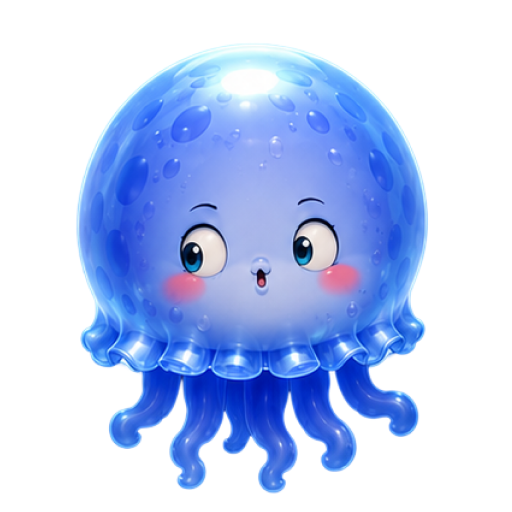
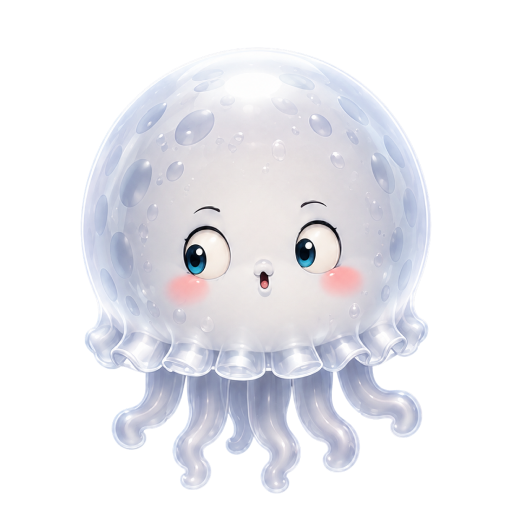
+3 jellyfish

diff --git a/src/worlds.js b/src/worlds.js
@@ -24,7 +24,10 @@ const JELLYFISH_CHARACTERS = Object.freeze([
   makeCharacter({ level: 3, name: 'Искорка', character: 'Неутомимая исследовательница.', description: 'Любопытная до невозможности. Если где-то что-то блеснуло — она уже там.', glowName: 'янтарно-золотое', glowColor: '#FFB347', glowColorNumber: 0xffb347, radius: 42, color: 0xffb347, cssColor: '#FFB347', points: 50, textureKey: 'jellyfish-level-3', texturePath: './assets/jellyfish/level3.png', bodyRatio: 0.68, originX: 0.5, originY: 0.42, progressScale: 0.92 }),
   makeCharacter({ level: 4, name: 'Хихи', character: 'Смешливая душа компании.', description: 'Смеётся первой, иногда ещё до того, как поняла шутку.', glowName: 'сиренево-фиолетовое', glowColor: '#B56CFF', glowColorNumber: 0xb56cff, radius: 53, color: 0xb56cff, cssColor: '#B56CFF', points: 100, textureKey: 'jellyfish-level-4', texturePath: './assets/jellyfish/level4.png', bodyRatio: 0.68, originX: 0.5, originY: 0.42, progressScale: 0.92 }),
   makeCharacter({ level: 5, name: 'Мята', character: 'Спокойная и немного самоуверенная.', description: 'Спокойная, хитрая и немного самоуверенная. Кажется, она всегда знает чуть больше остальных.', glowName: 'мятно-бирюзовое', glowColor: '#45F0CE', glowColorNumber: 0x45f0ce, radius: 66, color: 0x45f0ce, cssColor: '#45F0CE', points: 200, textureKey: 'jellyfish-level-5', texturePath: './assets/jellyfish/level5.png', bodyRatio: 0.68, originX: 0.5, originY: 0.42, progressScale: 0.92 }),
-  makeCharacter({ level: 6, name: 'Луна', character: 'Тихая мечтательница.', description: 'Мечтательница. Может долго смотреть в темноту и совершенно забыть, куда плыла.', glowName: 'лунно-синее', glowColor: '#6095FF', glowColorNumber: 0x6095ff, radius: 81, color: 0x6095ff, cssColor: '#6095FF', points: 400, textureKey: 'jellyfish-level-6', texturePath: './assets/jellyfish/level6.png', bodyRatio: 0.68, originX: 0.5, originY: 0.42, progressScale: 0.92 }),
+  makeCharacter({ level: 6, name: 'Луна', character: 'Тихая мечтательница.', description: 'Мечтательница. Может долго смотреть в темноту и совершенно забыть, куда плыла.', glowName: 'жемчужно-белое', glowColor: '#EAF5FF', glowColorNumber: 0xeaf5ff, radius: 81, color: 0xeaf5ff, cssColor: '#EAF5FF', points: 400, textureKey: 'jellyfish-level-6', texturePath: './assets/jellyfish/level6.png', bodyRatio: 0.68, originX: 0.5, originY: 0.42, progressScale: 0.92 }),
+  makeCharacter({ level: 7, name: 'Пламя', character: 'Смелая и вспыльчивая искательница приключений.', description: 'Вспыхивает от любой новой идеи и всегда первой бросается навстречу приключениям.', glowName: 'огненно-коралловое', glowColor: '#FF5A36', glowColorNumber: 0xff5a36, radius: 98, color: 0xff5a36, cssColor: '#FF5A36', points: 800, textureKey: 'jellyfish-level-7', texturePath: './assets/jellyfish/level7.png', bodyRatio: 0.68, originX: 0.5, originY: 0.42, progressScale: 0.92 }),
+  makeCharacter({ level: 8, name: 'Аврора', character: 'Добрая собирательница подводных чудес.', description: 'Носит под куполом целое северное сияние и с радостью делится его красками со всеми вокруг.', glowName: 'полярно-бирюзовое', glowColor: '#55E8FF', glowColorNumber: 0x55e8ff, radius: 117, color: 0x55e8ff, cssColor: '#55E8FF', points: 1600, textureKey: 'jellyfish-level-8', texturePath: './assets/jellyfish/level8.png', bodyRatio: 0.68, originX: 0.5, originY: 0.42, progressScale: 0.92 }),
+  makeCharacter({ level: 9, name: 'Ночка', character: 'Загадочная хранительница звёзд.', description: 'Говорит мало, зато знает, где прячутся самые красивые звёзды Лунной бухты.', glowName: 'звёздно-индиговое', glowColor: '#737CFF', glowColorNumber: 0x737cff, radius: 137, color: 0x737cff, cssColor: '#737CFF', points: 3200, textureKey: 'jellyfish-level-9', texturePath: './assets/jellyfish/level9.png', bodyRatio: 0.68, originX: 0.5, originY: 0.42, progressScale: 0.92 }),
 ]);
 
 const background = (id, folder) => Object.freeze({
@@ -68,14 +71,13 @@ export const WORLDS = Object.freeze({
     menuDescription: 'Ночная бездна с мягким биолюминесцентным сиянием.',
     previewCharacterLevel: 1,
     maxSupportedLevels: 9,
-    // Уровни 7–9 намеренно не перечислены: их белые заглушки не загружаются.
     characters: JELLYFISH_CHARACTERS,
     backgrounds: background('jellyfish', 'jellyfish_back'),
-    lockedTextureKey: 'character-locked',
-    lockedTexturePath: './assets/locked/locked_fish.png',
+    lockedTextureKey: 'jellyfish-character-locked',
+    lockedTexturePath: './assets/locked/locked_jellyfish.png',
     backgroundEvents: Object.freeze([]),
     ambientSound: 'underwater_ambient',
-    maxLevelMergeScore: 800,
+    maxLevelMergeScore: 6400,
     themeClass: 'world-jellyfish',
     glow: Object.freeze({
       sphereScale: 1.9,
